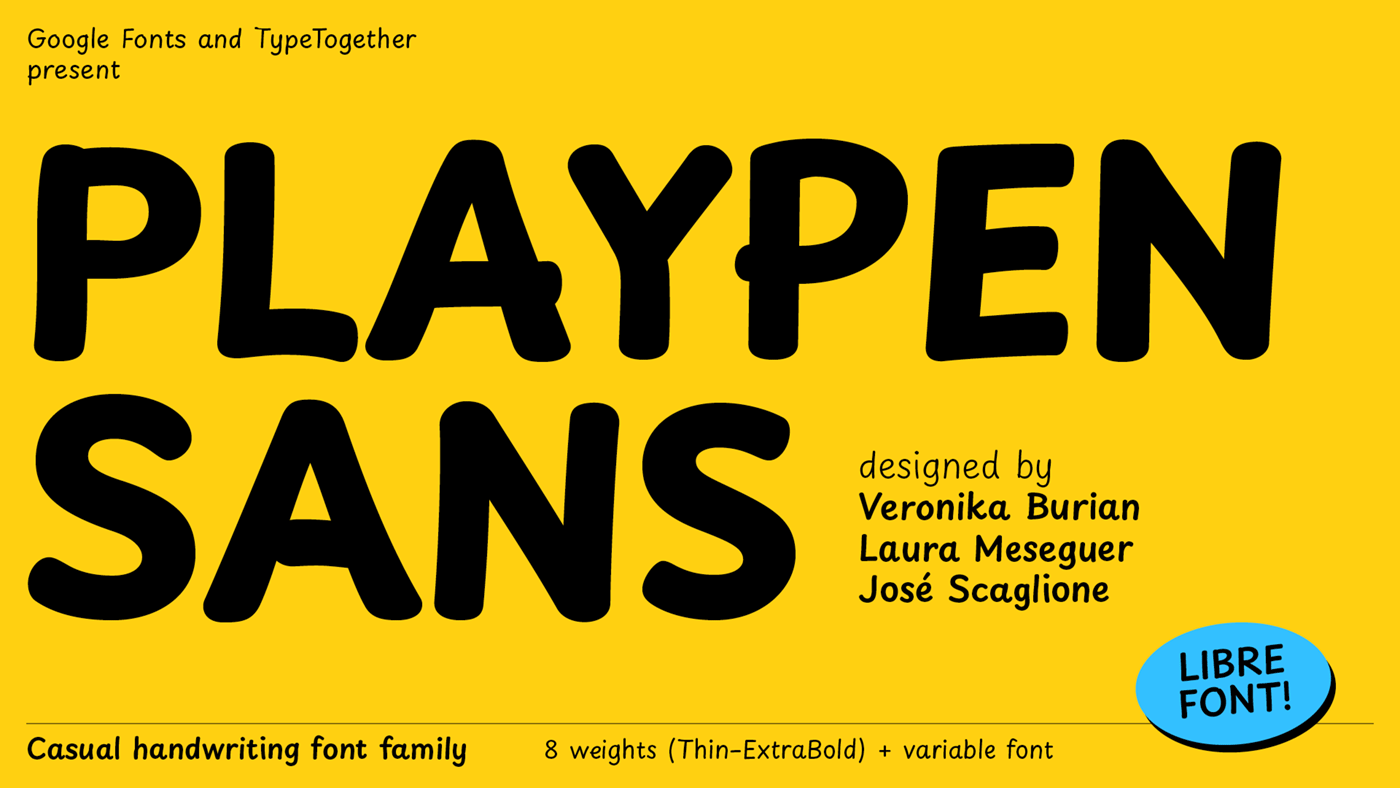
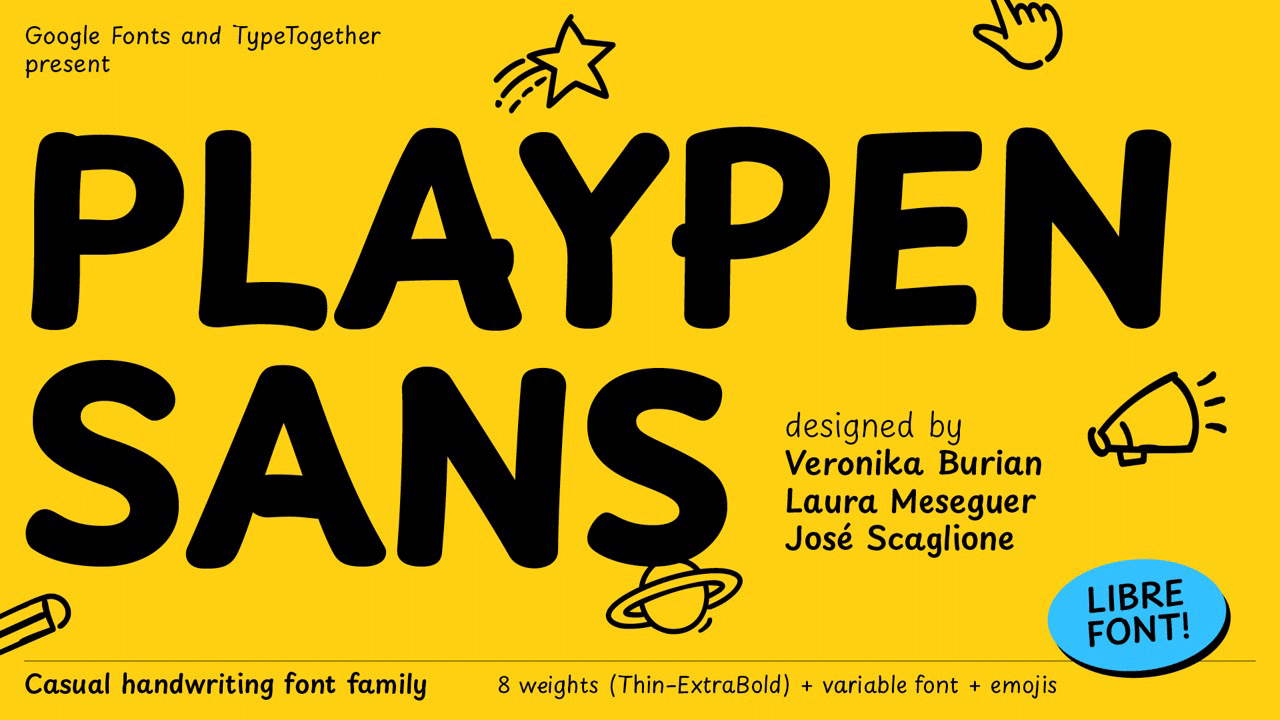
PPS Article updated with list of emojis

diff --git a/ofl/playpensans/article/ARTICLE.en_us.html b/ofl/playpensans/article/ARTICLE.en_us.html
@@ -1,24 +1,65 @@
 <p>
-    Some typefaces do more than one thing well, and others excel at one great thing. The Playpen Sans font family by Veronika Burian, Laura Meseguer, and José Scaglione excels at imitating casual handwriting with a completely natural look — the aesthetic form of something made by hand and the digital function of a professional typeface.
-    </p>
-    <img src="PlaypenSans-about1a.png">
-    <p>
-    The font world has a general tension between what’s organic and what’s digital. When scribbling a quick note, the letters have slight differences, but all look similar because they come from the same person. Handwritten text is inconsistent, while digital typefaces are intended to be consistent — each character exactly the same every time it’s typed.
-    </p>
-    <p>    
-    The goal of a typeface that is both casual in look and digital in nature is to appear authentically human within the bounds of digital reproduction. So, a typeface with a set of characters that are “the same but different” has the authenticity everyone craves. The main problem with casual fonts is not having enough alternate characters to look real. When a family has more than one alternate, another problem arises in controlling how and when a character gets replaced.
-    </p>
-    <img src="PlaypenSans-about2a.png">
-    <p>    
-    To solve these problems, we designed Playpen Sans with seven versions of each character. We also created a built-in shuffler so no single shape is repeated in close proximity. The result is text with spontaneous inconsistencies that feel fun and organic… all the benefits of a modern, professional typeface that looks natural.
-    </p>
-    <p>    
-    Playpen Sans has eight weights emojis for breezy and encouraging uses and supports over 150 Latin-based languages. Its straight and curved endings for ‘i, l, y’, the two-story ‘a’, and optional shapes for ‘f, G, I, M’ are clarifying features. The family was made for non-designers and to shine within short, informal settings: greeting cards and invitations, casual signs and documents, and of course, children’s books and educational materials, comic books, and graphic novels. It also comes in a variable font version for developers and designers who value ultimate control, data savings, and design superiority.
-    </p>
-    
-    <p>    
-    Playpen Sans is the extension of technological and aesthetic potential, showing the best of both worlds with its digital capabilities and casual, handmade look. Is it spontaneous? Is it authentic? Thankfully, yes, and yes.
-    </p>
-    <p>
-    To contribute, see <a href="https://github.com/TypeTogether/Playpen-Sans.git">github.com/TypeTogether/Playpen-Sans</a>
-    </p>
+Playpen Sans is one of the font families produced by TypeTogether after more than two years of primary research into handwriting education for Latin- based languages. It has seven automatic alternates for each character and a built-in shuffler that both ensures variation and avoids repetitive shapes in close proximity. This feature adds to the overall organic, spontaneous, and authentic feel of the handwritten style.
+</p>
+<p>
+Playpen Sans is a variable font with a weight range from Thin to Extrabold, including support for over 150 Latin-based languages and a set of reward icons.</p>
+<p>
+To contribute, see <a href="https://github.com/TypeTogether/Playpen-Sans.git" target="_blank">github.com/TypeTogether/Playpen-Sans</a>
+</p>
+<hr>    
+<img src="PlaypenSans-about1a.png">
+<h3>A new casual handwriting font</h3>
+<p>
+Some typefaces do more than one thing well, and others excel at one great thing. The Playpen Sans font family by Veronika Burian, Laura Meseguer, and José Scaglione excels at imitating casual handwriting with a completely natural look — the aesthetic form of something made by hand and the digital function of a professional typeface.
+</p>
+<p>
+The font world has a general tension between what’s organic and what’s digital. When scribbling a quick note, the letters have slight differences, but all look similar because they come from the same person. Handwritten text is inconsistent, while digital typefaces are intended to be consistent — each character exactly the same every time it’s typed.
+</p>
+<p>    
+The goal of a typeface that is both casual in look and digital in nature is to appear authentically human within the bounds of digital reproduction. So, a typeface with a set of characters that are “the same but different” has the authenticity everyone craves. The main problem with casual fonts is not having enough alternate characters to look real. When a family has more than one alternate, another problem arises in controlling how and when a character gets replaced.
+</p>
+<br>
+<img src="PlaypenSans-about2a.png">
+<p>    
+To solve these problems, we designed Playpen Sans with seven versions of each character. We also created a built-in shuffler so no single shape is repeated in close proximity. The result is text with spontaneous inconsistencies that feel fun and organic… all the benefits of a modern, professional typeface that looks natural.
+</p>
+<p>    
+The family was made for non-designers and to shine within short, informal settings: greeting cards and invitations, casual signs and documents, and of course, children’s books and educational materials, comic books, and graphic novels. Its straight and curved endings for ‘i, l, y’, the two-story ‘a’, and optional shapes for ‘f, G, I, M’ are clarifying features. It supports over 150 Latin-based languages, and it also comes in a variable font version for developers and designers who value ultimate control, data savings, and design superiority.
+</p>
+<p>    
+Playpen Sans is the extension of technological and aesthetic potential, showing the best of both worlds with its digital capabilities and casual, handmade look. Is it spontaneous? Is it authentic? Thankfully, yes, and yes.
+</p>
+<br>
+<img src="PlaypenSans-about4a.png">
+<h4>Emojis</h4>
+<p>
+Playpen Sans has eight weights emojis for breezy and encouraging uses. Find here all the emojis included in the font. You can copy / paste them into your editor when using font and get the Playpen Sans version of the emoji.
+</p>
+<ul>
+    <li>🌠</li>
+    <li>🎂</li>
+    <li>🎯</li>
+    <li>👆</li>
+    <li>👍</li>
+    <li>👎</li>
+    <li>📖</li>
+    <li>✍</li>
+    <li>🎨</li>
+    <li>🏠</li>
+    <li>✏</li>
+    <li>✓</li>
+    <li>❌</li>
+    <li>🪫</li>
+    <li>🏅</li>
+    <li>📣</li>
+    <li>🦄</li>
+    <li>🦖</li>
+    <li>🧩</li>
+    <li>🪐</li>
+    <li>✈</li>
+    <li>🌞</li>
+    <li>😍</li>
+    <li>☠</li>
+    <li>☹</li>
+    <li>😉</li>
+</ul>
